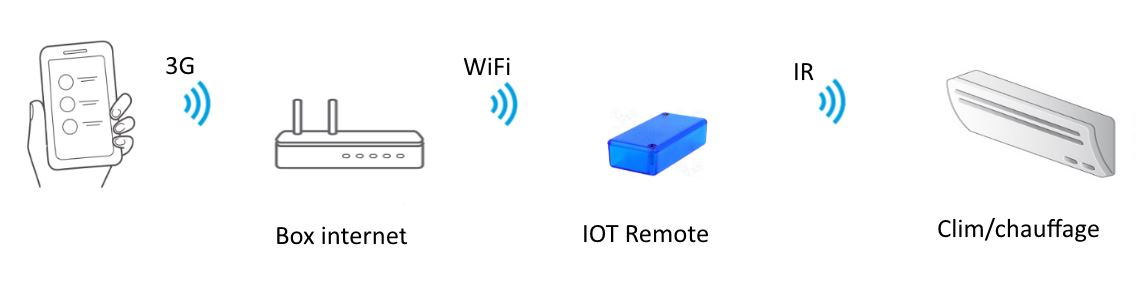
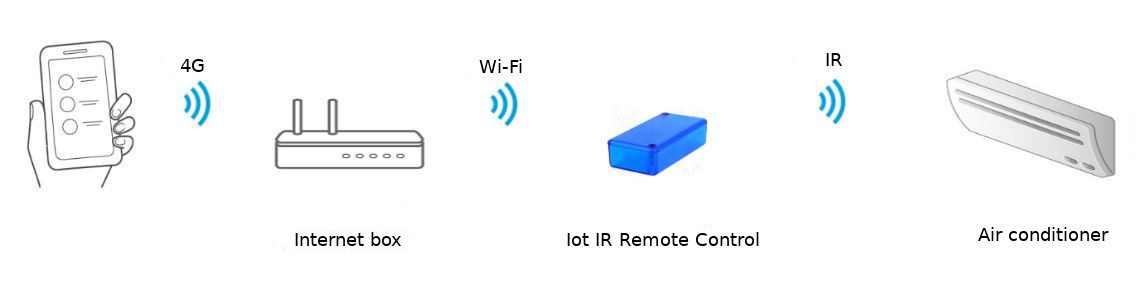
Update README.md
Update IR-board.jpg

Update Iot_remote.JPG

diff --git a/examples/IrRemoteControl/Readme.md b/examples/IrRemoteControl/Readme.md
@@ -1,35 +1,35 @@
 # IrRemoteControl
 
-IrRemoteControl is an application which uses an ESP8266 WiFi chip to record and replay any InfraRed signals with JSON or MQTT commands.
+IrRemoteControl is an application that uses an ESP8266 Wi-Fi chip to record and replay any InfraRed signals using JSON or MQTT commands.
 
-Here I used it to remotely control my Daikin air conditioning with Domoticz or thanks to the embedded web server in the ESP.
+In this example, I used it to remotely control my Daikin air conditioner using Domoticz or the embedded web server in the ESP :yum:
 
 ![Web remote control](https://github.com/gerald-guiony/ESPInfraredTransceiver/blob/master/examples/IrRemoteControl/doc/img/Iot_remote.JPG)
 
 ![InfraRed sniffer](https://github.com/gerald-guiony/ESPInfraredTransceiver/blob/master/examples/IrRemoteControl/doc/img/ir-sniffer-1.png)
 
-I used a [Wio node](https://wiki.seeedstudio.com/Wio_Node/) with this [Grove InfraRed Emitter](https://wiki.seeedstudio.com/Grove-Infrared_Emitter/) 
-and this [Grove InfraRed Receiver](https://wiki.seeedstudio.com/Grove-Infrared_Receiver/)
+I used a [Wio Node](https://wiki.seeedstudio.com/Wio_Node/) with the [Grove InfraRed Emitter](https://wiki.seeedstudio.com/Grove-Infrared_Emitter/) 
+and the [Grove InfraRed Receiver](https://wiki.seeedstudio.com/Grove-Infrared_Receiver/)
 
 ![Board](https://github.com/gerald-guiony/ESPInfraredTransceiver/blob/master/examples/IrRemoteControl/doc/img/IR-board.jpg)
 ![Daikin](https://github.com/gerald-guiony/ESPInfraredTransceiver/blob/master/examples/IrRemoteControl/doc/img/Daikin.jpg)
 
 ## Web server
 
-In addition to the directly accessible JSON and MQTT commands, there is also the possibility of loading a web page from the web server embedded in the ESP with its IP address.
+In addition to the JSON and MQTT commands directly accessible, you can also load a webpage from the embedded ESP web server using its IP address.
 
-In this HTML page, AJAX is used extensively for more user interactions, see the source code page [here](https://github.com/gerald-guiony/ESPInfraredTransceiver/blob/master/examples/IrRemoteControl/doc/html/WebServer.html)
+This HTML page extensively uses AJAX for enhanced user interactions; see the source code page [here](https://github.com/gerald-guiony/ESPInfraredTransceiver/blob/master/examples/IrRemoteControl/doc/html/WebServer.html)
 
 ![Send IR signal](https://github.com/gerald-guiony/ESPInfraredTransceiver/blob/master/examples/IrRemoteControl/doc/img/IR-send.png)
 ![Record IR signal](https://github.com/gerald-guiony/ESPInfraredTransceiver/blob/master/examples/IrRemoteControl/doc/img/IR-record.png) 
 
 ## Dependencies
 
-To upload this application you must have the latest version of :
-* [ESPCoreExtension library](https://github.com/gerald-guiony/ESPCoreExtension) 
+To upload this application, you need to have the latest versions of the following:
+* [ESPCoreExtension library](https://github.com/gerald-guiony/ESPCoreExtension)
 * [ESPWiFiServersExtension library](https://github.com/gerald-guiony/ESPWiFiServersExtension)
 * [ESPInfraredTransceiver library](https://github.com/gerald-guiony/ESPInfraredTransceiver)
 
 ## Board settings
 
-Board settings in Arduino IDE to upload the sketch with OTA (Over The Air) to my Wio node : [Wio Node board settings](https://github.com/gerald-guiony/ESPInfraredTransceiver/blob/master/examples/IrRemoteControl/doc/WioNodeBoardSettings.png)
+Here are the board settings in the Arduino IDE that I use to upload the sketch to my Wio Node via OTA (Over-The-Air): [Wio Node board settings](https://github.com/gerald-guiony/ESPInfraredTransceiver/blob/master/examples/IrRemoteControl/doc/WioNodeBoardSettings.png)

diff --git a/README.md b/README.md
@@ -2,26 +2,24 @@
 
 [![ESP8266](https://img.shields.io/badge/ESP-8266-000000.svg?longCache=true&style=flat&colorA=CC101F)](https://www.espressif.com/en/products/socs/esp8266)
 
-ESPInfraredTransceiver is a C++ library for the Arduino Core for ESP8266 board enabling the sending & receiving of any InfraRed signals.
+ESPInfraredTransceiver is a C++ library for the Arduino Core designed for the ESP8266 board, enabling the transmission and reception of any InfraRed signals.
 
 This library is compatible with any infrared signal because it simply records and replays infrared signals, 
 there is no protocol analysis like with [this other library](https://github.com/Arduino-IRremote/Arduino-IRremote/tree/master)
 
-#### If you find this program useful, please give it a star.
-
 ## Getting started
 
-To use ESPCoreExtension, you need:
+To use ESPInfraredTransceiver, you will need:
 
-* An ESP8266
-* The Arduino IDE version 2.3.2 and more
+* An ESP8266 board
+* The Arduino IDE configured for ESP8266 (version 2.3.2 or later)
 * [Arduino core for the ESP8266](https://github.com/esp8266/Arduino) version 3.1.2
-* Basic knowledge of the Arduino environment (upload a sketch, import libraries, ...)
+* A basic understanding of the Arduino environment (e.g., uploading sketches, importing libraries, etc.)
 
 ## Installing ESPInfraredTransceiver
 
-1. Download the latest master source code [.zip](https://github.com/gerald-guiony/ESPInfraredTransceiver/archive/master.zip)
-2. In the Arduino IDE, load the `.zip` with **Sketch → Include Library → Add .ZIP Library**
+1. Download the latest master source code as a [.zip](https://github.com/gerald-guiony/ESPInfraredTransceiver/archive/master.zip) file
+2. In the Arduino IDE, import the `.zip` file by navigating to **Sketch → Include Library → Add .ZIP Library**
 
 ## Dependencies
 
